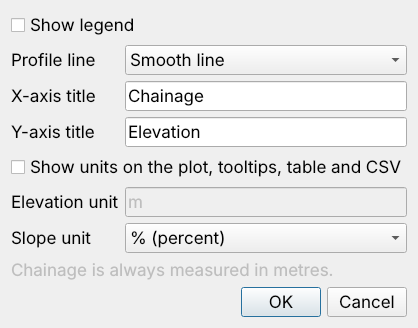
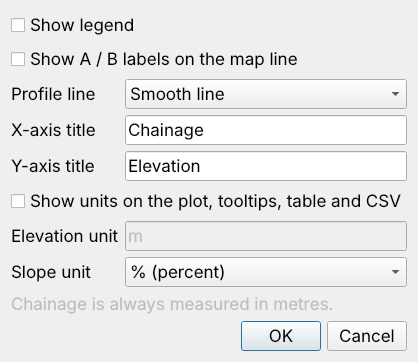
Add "Show A / B labels" setting, off by default
- The map overlay draws only the line by default; ticking "Show A / B
  labels on the map line" in Settings adds the end markers and the A/B
  labels (the plot-cursor marker is unaffected)
- README, screenshots and the 10 km mock-up updated; test for the setting

Claude-Session: https://claude.ai/code/session_01Dz8GrhiLZLR2EK7NZVtAvs

Changed region(s): [[0.0, 0.122, 0.9952, 0.9756], [0.0311, 0.0305, 0.3421, 0.122]]

diff --git a/profile_plot/map_tool.py b/profile_plot/map_tool.py
@@ -107,6 +107,7 @@ class ProfileCanvasItem(QgsMapCanvasItem):
         self.tail = None
         self.finished = False
         self.marker = None
+        self.show_ab = False   # A/B labels and end markers (Settings)
         self._font = QFont()
         self._font.setBold(True)
         self.setPos(0, 0)
@@ -166,6 +167,12 @@ class ProfileCanvasItem(QgsMapCanvasItem):
         if dirty:
             self.update(self._rect_of(dirty, 12))
 
+    def set_show_ab(self, show):
+        show = bool(show)
+        if show != self.show_ab:
+            self.show_ab = show
+            self.update()
+
     def clear(self):
         self.points = []
         self.tail = None
@@ -200,17 +207,18 @@ class ProfileCanvasItem(QgsMapCanvasItem):
             dash.setStyle(Qt.PenStyle.DashLine)
             painter.setPen(dash)
             painter.drawLine(pts[-1], t)
-        # vertices
-        painter.setPen(QPen(LINE_COLOR, 1.5))
-        painter.setBrush(QBrush(QColor("#ffffff")))
-        for q in pts[1:-1]:
-            painter.drawEllipse(q, 2.5, 2.5)
-        painter.drawEllipse(pts[0], 4.5, 4.5)
-        if len(pts) > 1:
-            painter.drawEllipse(pts[-1], 4.5, 4.5)
-        self._label(painter, pts[0], "A")
-        if self.finished and len(pts) > 1:
-            self._label(painter, pts[-1], "B")
+        if self.show_ab:
+            # vertices, end markers and the A / B labels
+            painter.setPen(QPen(LINE_COLOR, 1.5))
+            painter.setBrush(QBrush(QColor("#ffffff")))
+            for q in pts[1:-1]:
+                painter.drawEllipse(q, 2.5, 2.5)
+            painter.drawEllipse(pts[0], 4.5, 4.5)
+            if len(pts) > 1:
+                painter.drawEllipse(pts[-1], 4.5, 4.5)
+            self._label(painter, pts[0], "A")
+            if self.finished and len(pts) > 1:
+                self._label(painter, pts[-1], "B")
         if self.marker is not None:
             m = self._px(self.marker)
             painter.setPen(QPen(QColor("#202020"), 1.5))

diff --git a/profile_plot/settings.py b/profile_plot/settings.py
@@ -57,6 +57,10 @@ DEFAULT_X_TITLE = "Chainage"
 DEFAULT_Y_TITLE = "Elevation"
 
 
+def show_ab():
+    return get("showAB", False, bool)
+
+
 def line_style():
     style = get("lineStyle", "smooth", str)
     return style if style in dict(LINE_STYLES) else "smooth"
@@ -76,7 +80,7 @@ def slope_unit():
 
 
 class SettingsDialog(QDialog):
-    """Legend (off by default), profile line style (smooth by default),
+    """Legend and A/B map labels (both off by default), profile line style (smooth by default),
     axis titles (Chainage / Elevation by default), units (hidden by
     default; when shown, chainage is in metres and the elevation unit is
     the text entered here, default "m") and the slope unit (% by default,
@@ -92,6 +96,11 @@ class SettingsDialog(QDialog):
                                     "at the pointer")
         self.show_legend.setChecked(show_legend())
         form.addRow(self.show_legend)
+        self.show_ab = QCheckBox("Show A / B labels on the map line")
+        self.show_ab.setToolTip("Mark the start (A) and end (B) of the line on the map.\n"
+                                "Off: only the line is drawn.")
+        self.show_ab.setChecked(show_ab())
+        form.addRow(self.show_ab)
         self.line_style = QComboBox()
         for key, label in LINE_STYLES:
             self.line_style.addItem(label, key)
@@ -132,6 +141,7 @@ class SettingsDialog(QDialog):
 
     def accept(self):
         set("showLegend", self.show_legend.isChecked())
+        set("showAB", self.show_ab.isChecked())
         set("lineStyle", self.line_style.currentData())
         set("xTitle", self.x_title.text().strip() or DEFAULT_X_TITLE)
         set("yTitle", self.y_title.text().strip() or DEFAULT_Y_TITLE)

diff --git a/tests/test_qgis_integration.py b/tests/test_qgis_integration.py
@@ -799,3 +799,42 @@ def test_axis_titles_and_line_style_settings(env):
     assert (settings.x_title(), settings.y_title()) == ("Chainage", "Elevation")
     assert (dock.plot.x_title, dock.plot.y_title) == ("Chainage", "Elevation")
     assert dock.plot.line_style == "smooth"
+
+
+def test_ab_labels_setting(env):
+    """A/B labels are off by default (line only) and switch on in Settings."""
+    from profile_plot import settings
+    from profile_plot.settings import SettingsDialog
+    from qgis.core import QgsSettings
+    from qgis.PyQt.QtGui import QImage, QPainter
+    dock = env["plugin"].dock
+    QgsSettings().remove(settings.PREFIX + "showAB")
+    assert settings.show_ab() is False
+    draw(env, [(X0, Y), (X0 + 100, Y)])
+    dock._apply_settings()
+    item = dock.canvas_item
+    assert item.show_ab is False
+
+    calls = []
+    original = item._label
+    item._label = lambda painter, at, text: calls.append(text)
+    try:
+        img = QImage(400, 300, QImage.Format.Format_ARGB32_Premultiplied)
+        p = QPainter(img)
+        item.paint(p)
+        p.end()
+        assert calls == []                       # line only
+        dlg = SettingsDialog(dock)
+        assert dlg.show_ab.isChecked() is False
+        dlg.show_ab.setChecked(True)
+        dlg.accept()
+        dock._apply_settings()
+        assert item.show_ab is True
+        p = QPainter(img)
+        item.paint(p)
+        p.end()
+        assert calls == ["A", "B"]
+    finally:
+        item._label = original
+        settings.set("showAB", False)
+        dock._apply_settings()

diff --git a/profile_plot/dock.py b/profile_plot/dock.py
@@ -175,8 +175,8 @@ class ProfileDock(QgsDockWidget):
         bar.addWidget(self.image_button)
         bar.addStretch(1)
         self.act_settings = QAction(icons.icon("settings"), "Settings", self)
-        self.act_settings.setToolTip("Profile Plot settings (legend, line, axis titles, units, "
-                                     "slope unit)")
+        self.act_settings.setToolTip("Profile Plot settings (legend, A/B labels, line, axis "
+                                     "titles, units, slope unit)")
         b_set = _tool_button(self.act_settings)
         b_set.setAccessibleName("Profile Plot settings")
         bar.addWidget(b_set)
@@ -375,6 +375,7 @@ class ProfileDock(QgsDockWidget):
     def _ensure_canvas_item(self):
         if self.canvas_item is None:
             self.canvas_item = ProfileCanvasItem(self.canvas)
+            self.canvas_item.set_show_ab(settings.show_ab())
         return self.canvas_item
 
     def _display_transform(self):
@@ -676,6 +677,8 @@ class ProfileDock(QgsDockWidget):
         self.plot.set_show_legend(settings.show_legend())
         self.plot.set_line_style(settings.line_style())
         self.plot.set_axis_titles(settings.x_title(), settings.y_title())
+        if self.canvas_item is not None:
+            self.canvas_item.set_show_ab(settings.show_ab())
         self.raster_panel.set_show_units(show)
         self._update_footer()
         self._refresh_table()

diff --git a/scripts/screenshot.py b/scripts/screenshot.py
@@ -73,7 +73,8 @@ def main():
     dock.act_cross.setChecked(True)
     from profile_plot import settings
     # Defaults, so the screenshots show what a new user sees
-    for key, value in (("showLegend", False), ("showUnits", False), ("unit", "m"),
+    for key, value in (("showLegend", False), ("showAB", False), ("showUnits", False),
+                       ("unit", "m"),
                        ("slopeUnit", "%"), ("lineStyle", "smooth"),
                        ("xTitle", "Chainage"), ("yTitle", "Elevation")):
         settings.set(key, value)

diff --git a/scripts/mockup_10km.py b/scripts/mockup_10km.py
@@ -138,8 +138,10 @@ def main():
     iface.canvas.setLayers([wse, dem, shade])
 
     from profile_plot import classFactory, settings
-    settings.set("showLegend", False)
-    settings.set("slopeUnit", "%")
+    for key, value in (("showLegend", False), ("showAB", False), ("slopeUnit", "%"),
+                       ("lineStyle", "smooth"), ("xTitle", "Chainage"),
+                       ("yTitle", "Elevation"), ("showUnits", False)):
+        settings.set(key, value)
     plugin = classFactory(iface)
     plugin.initGui()
     plugin.run()

diff --git a/README.md b/README.md
@@ -117,10 +117,10 @@ The assigned keys are shown in the icon's and the **Draw line** button's tooltip
 | New profile after finishing | just click again: the tool stays active |
 | Profile an existing line | select a line feature, then click **Use selected line** |
 
-While you draw, the finished part is solid magenta and the moving part is dashed. **A** marks
-the first vertex as soon as you click it; **B** appears at the end when you finish. A is the
-start of chainage (0) and B is the end. The line and labels stay on the map until you start a
-new line or close the dock.
+While you draw, the finished part of the line is solid magenta and the moving part is dashed.
+By default only the line is drawn. To mark the start (**A**, chainage 0) and the end (**B**),
+tick *Show A / B labels on the map line* in Settings. The line stays on the map until you start
+a new line or close the dock.
 
 ## The dock, part by part
 
@@ -274,6 +274,7 @@ Images match what you see, including the legend if it's on.
 | Setting | Default | Effect |
 |---|---|---|
 | Show legend | off | Corner box with each raster and its value at the pointer. |
+| Show A / B labels on the map line | off | Marks the start (A) and end (B) of the line on the map. Off: only the line. |
 | Profile line | Smooth line | *Smooth line* through the cell values, or *Steps (native cells)*. |
 | X-axis title | Chainage | Title under the plot. Leave it empty to return to the default. |
 | Y-axis title | Elevation | Title beside the plot. Leave it empty to return to the default. |
@@ -338,7 +339,7 @@ and 90 ms to all native values.
 | You see | Why / what to do |
 |---|---|
 | What is ΔZ in the footer? | End minus start elevation of the slope layer (B − A). Shown only when a slope layer is selected. |
-| Why A and B on the map? | They mark the start (A, chainage 0) and end (B) of the line, so you can see which way the profile runs. |
+| How do I see which end is chainage 0? | Tick *Show A / B labels on the map line* in Settings: A is the start (chainage 0), B the end. |
 | *Average slope unavailable* | An end of the line is outside the slope raster or on NoData. Move the ends onto data. |
 | *endpoint grade across gap, coverage …* | The ends are valid but the line crosses NoData. The grade uses the two ends. |
 | *Preview from overview — refining…* | Full-resolution values are still loading (large rasters, network drives). It disappears when done; Export CSV waits for it. |
